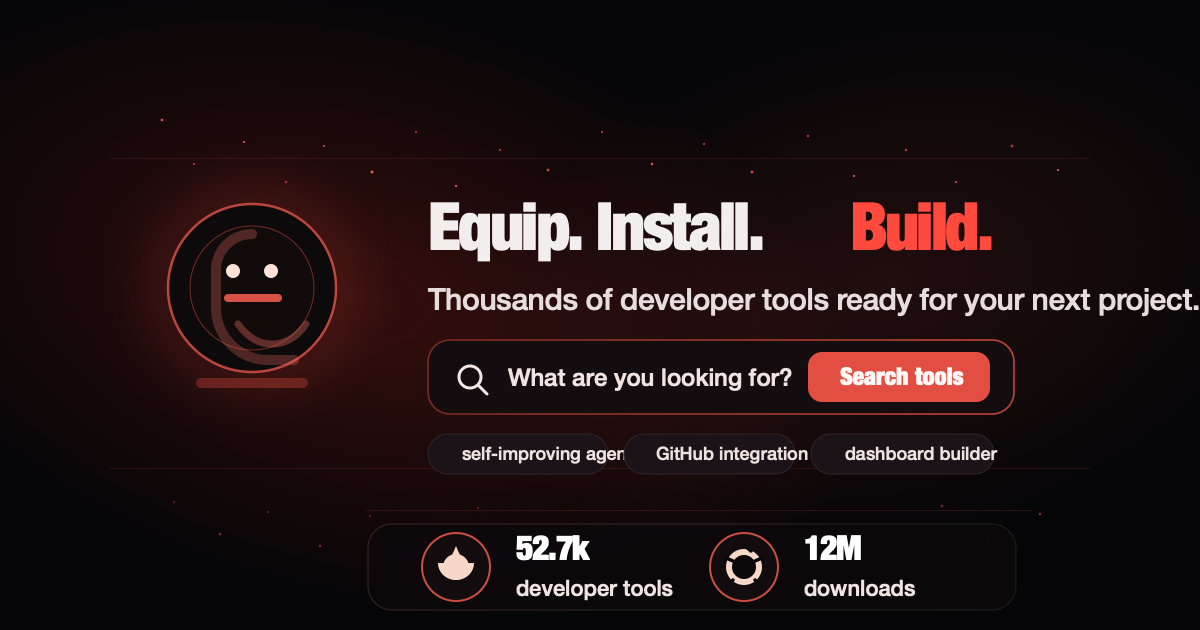
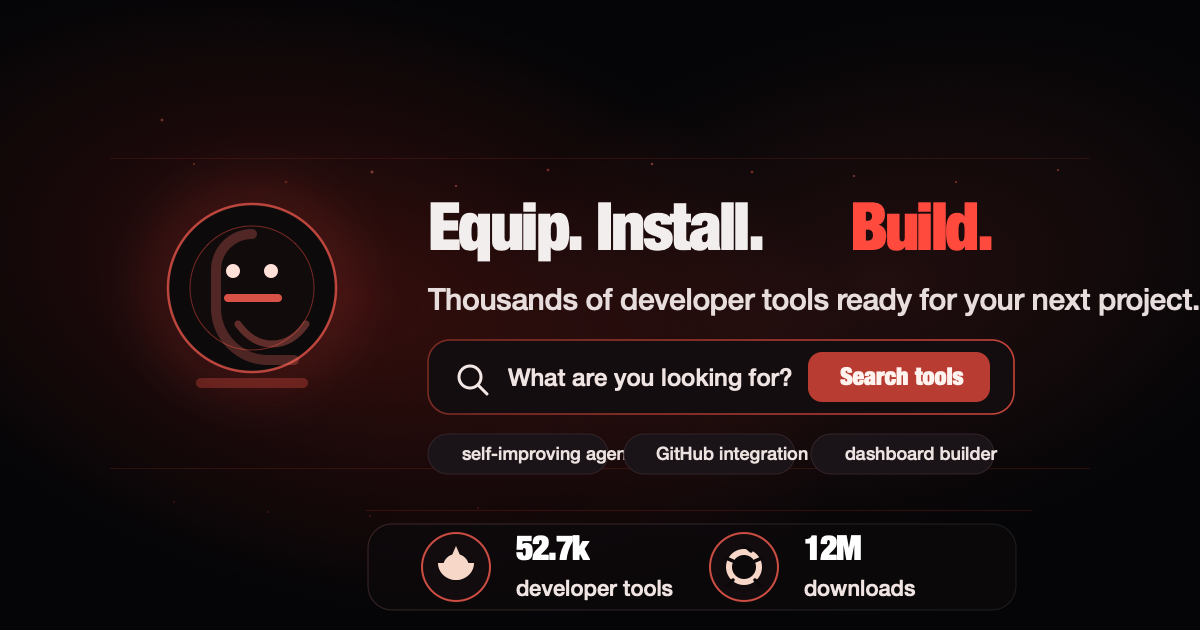
fix: refine clawhub og image

Changed region(s): [[0.6475, 0.5429, 0.8325, 0.6635]]

diff --git a/src/routes/__root.tsx b/src/routes/__root.tsx
@@ -10,7 +10,7 @@ import Header from "../components/Header";
 import { getSiteDescription, getSiteMode, getSiteName, getSiteUrlForMode } from "../lib/site";
 import appCss from "../styles.css?url";
 
-const OG_IMAGE_VERSION = "20260420-2";
+const OG_IMAGE_VERSION = "20260420-3";
 
 export const Route = createRootRoute({
   head: () => {
